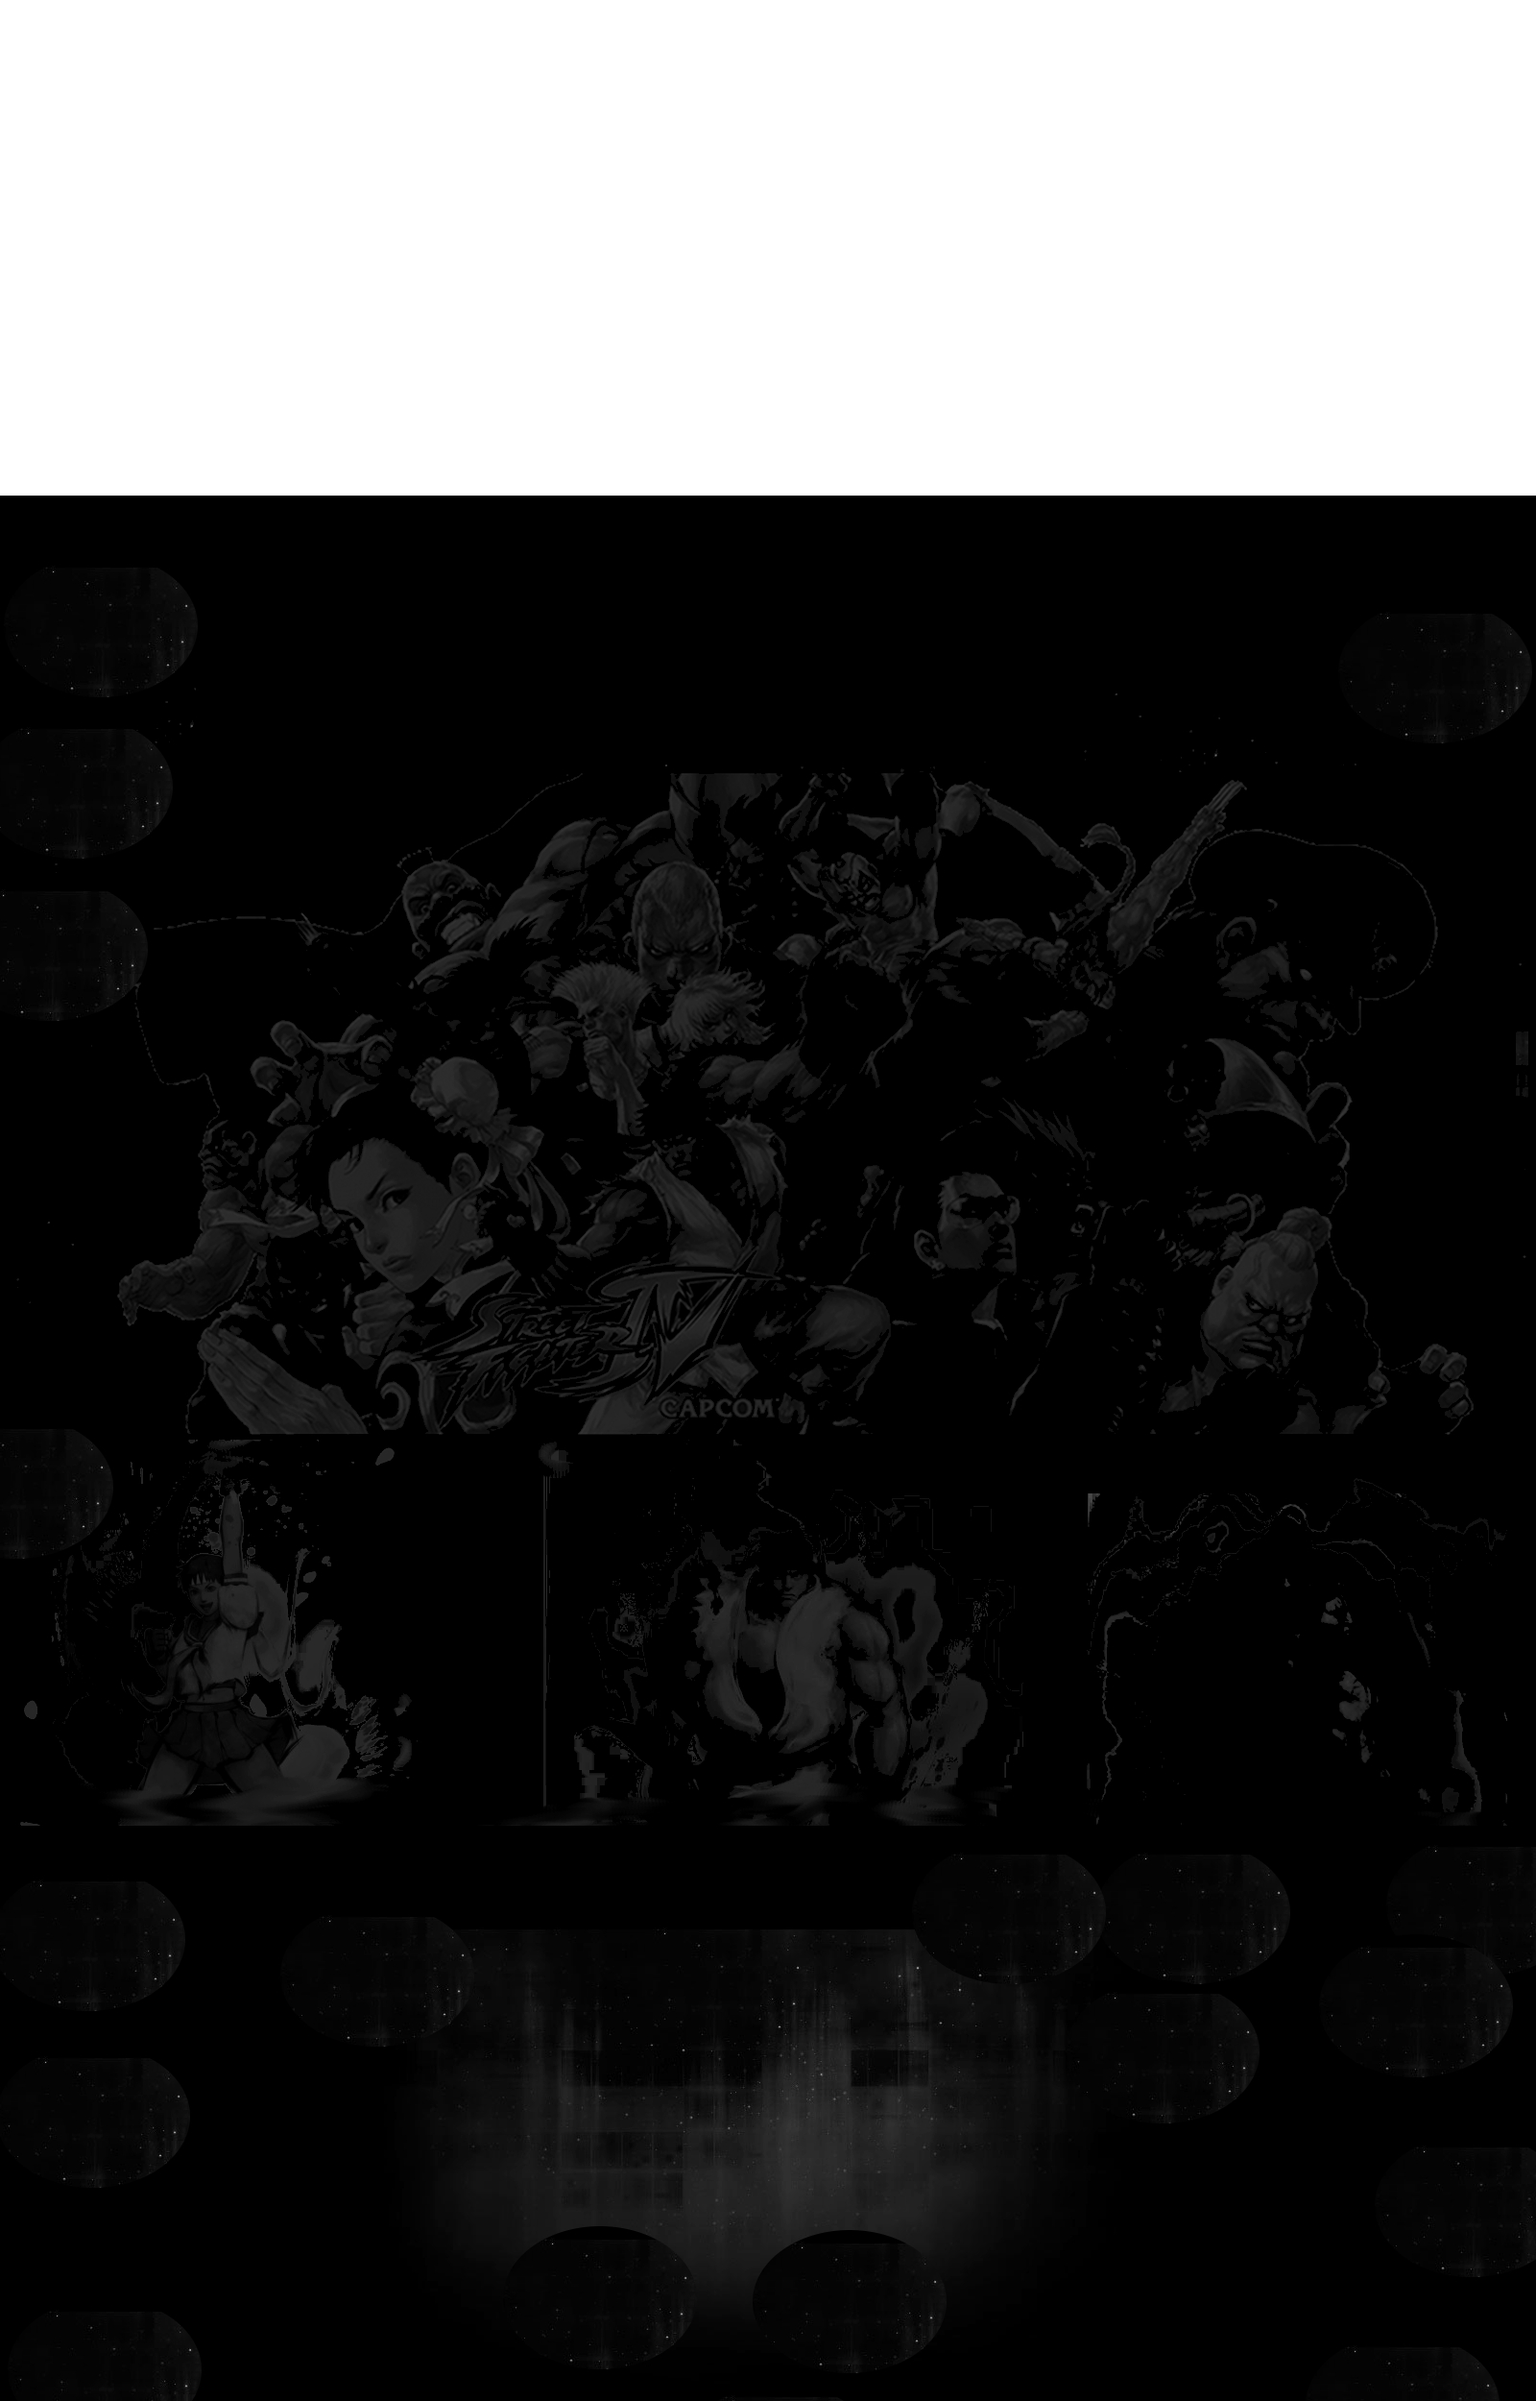
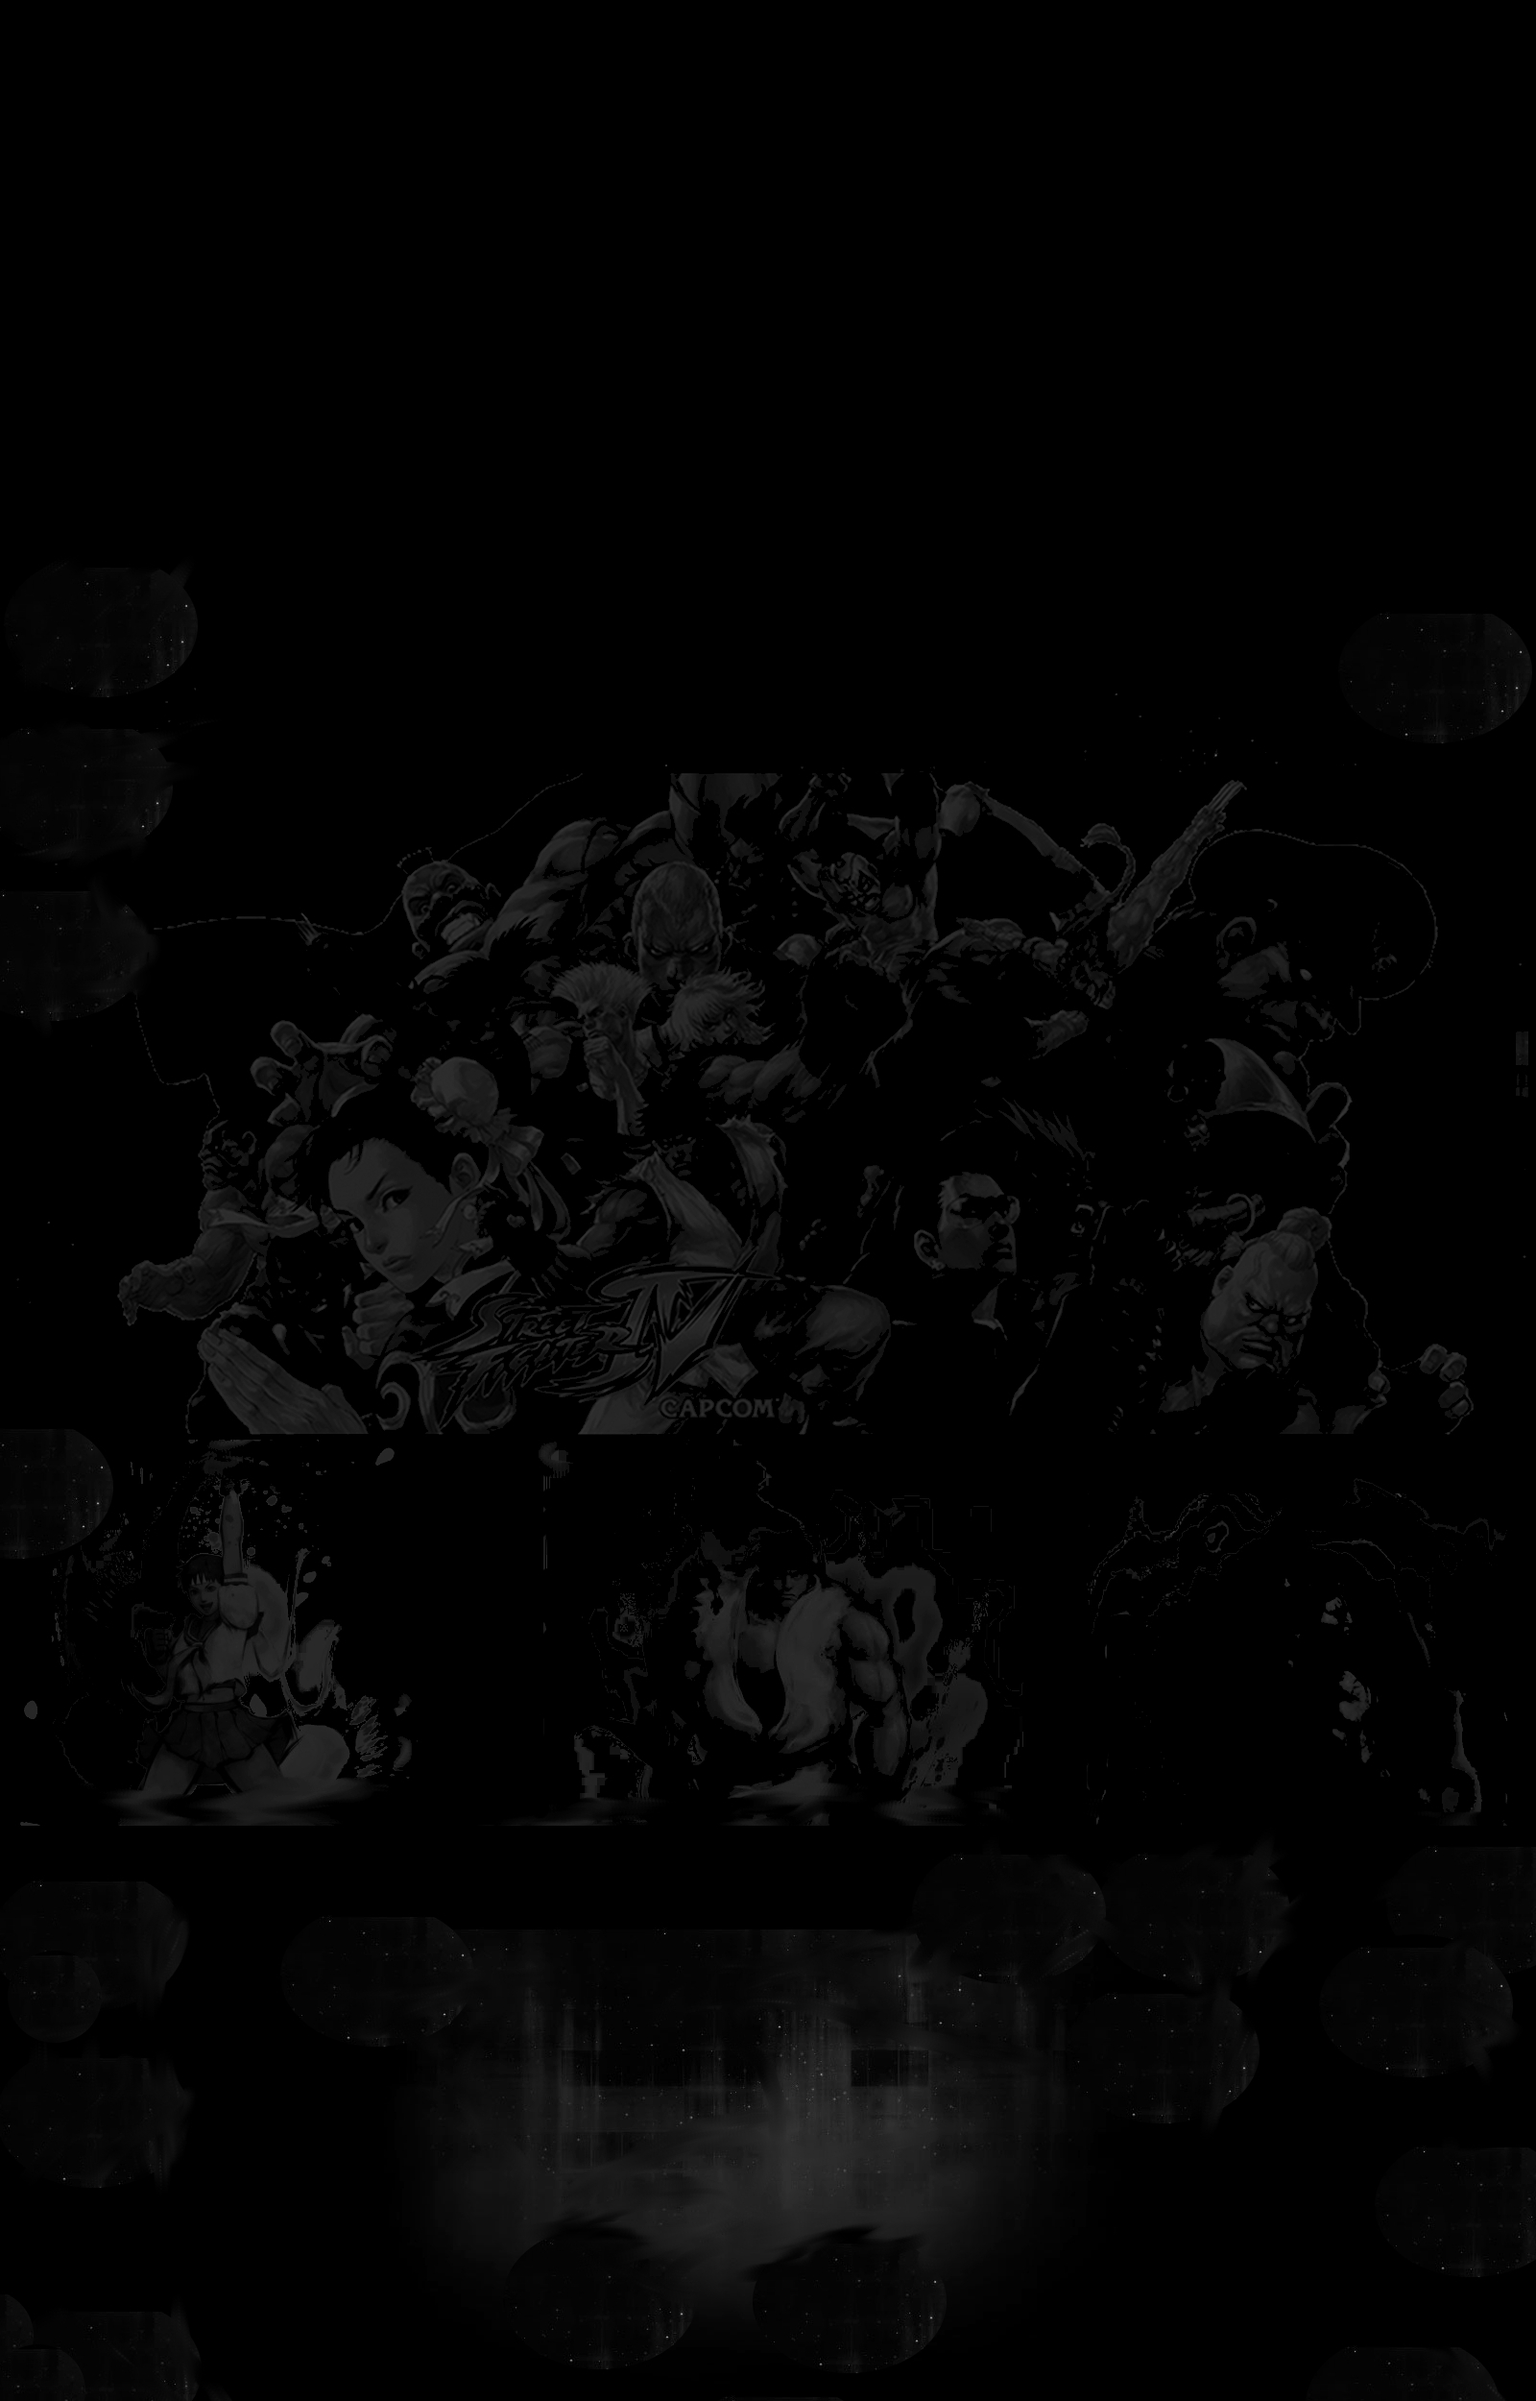
Fix background so it fits full screen.

Changed region(s): [[0.0, 0.0, 1.0, 0.2184]]

diff --git a/public/stylesheets/global.css b/public/stylesheets/global.css
@@ -1,6 +1,6 @@
 /* GENERAL ------------------------------------------------------------ */
 body {
-  background: black;
+  background: black url(../img/background2.jpg) no-repeat center;
   margin: 0;
   font-family: Arial, Helvetica, sans-serif;
   font-size: 14px;
@@ -66,7 +66,6 @@ form {
   padding: 4px 8px 6px; }
 
 #wrapper {
-  background: black url(../img/background2.jpg) no-repeat center;
   min-height: 850px;
   width: 100%; }
 

diff --git a/public/stylesheets/sass/global.sass b/public/stylesheets/sass/global.sass
@@ -1,7 +1,7 @@
 /* GENERAL ------------------------------------------------------------
 
 body
-  background: black
+  background: black url(../img/background2.jpg) no-repeat center
   margin: 0
   font-family: Arial, Helvetica, sans-serif
   font-size: 14px
@@ -67,7 +67,6 @@ form
   padding: 4px 8px 6px
 
 #wrapper
-  background: black url(../img/background2.jpg) no-repeat center
   min-height: 850px
   width: 100%
 
